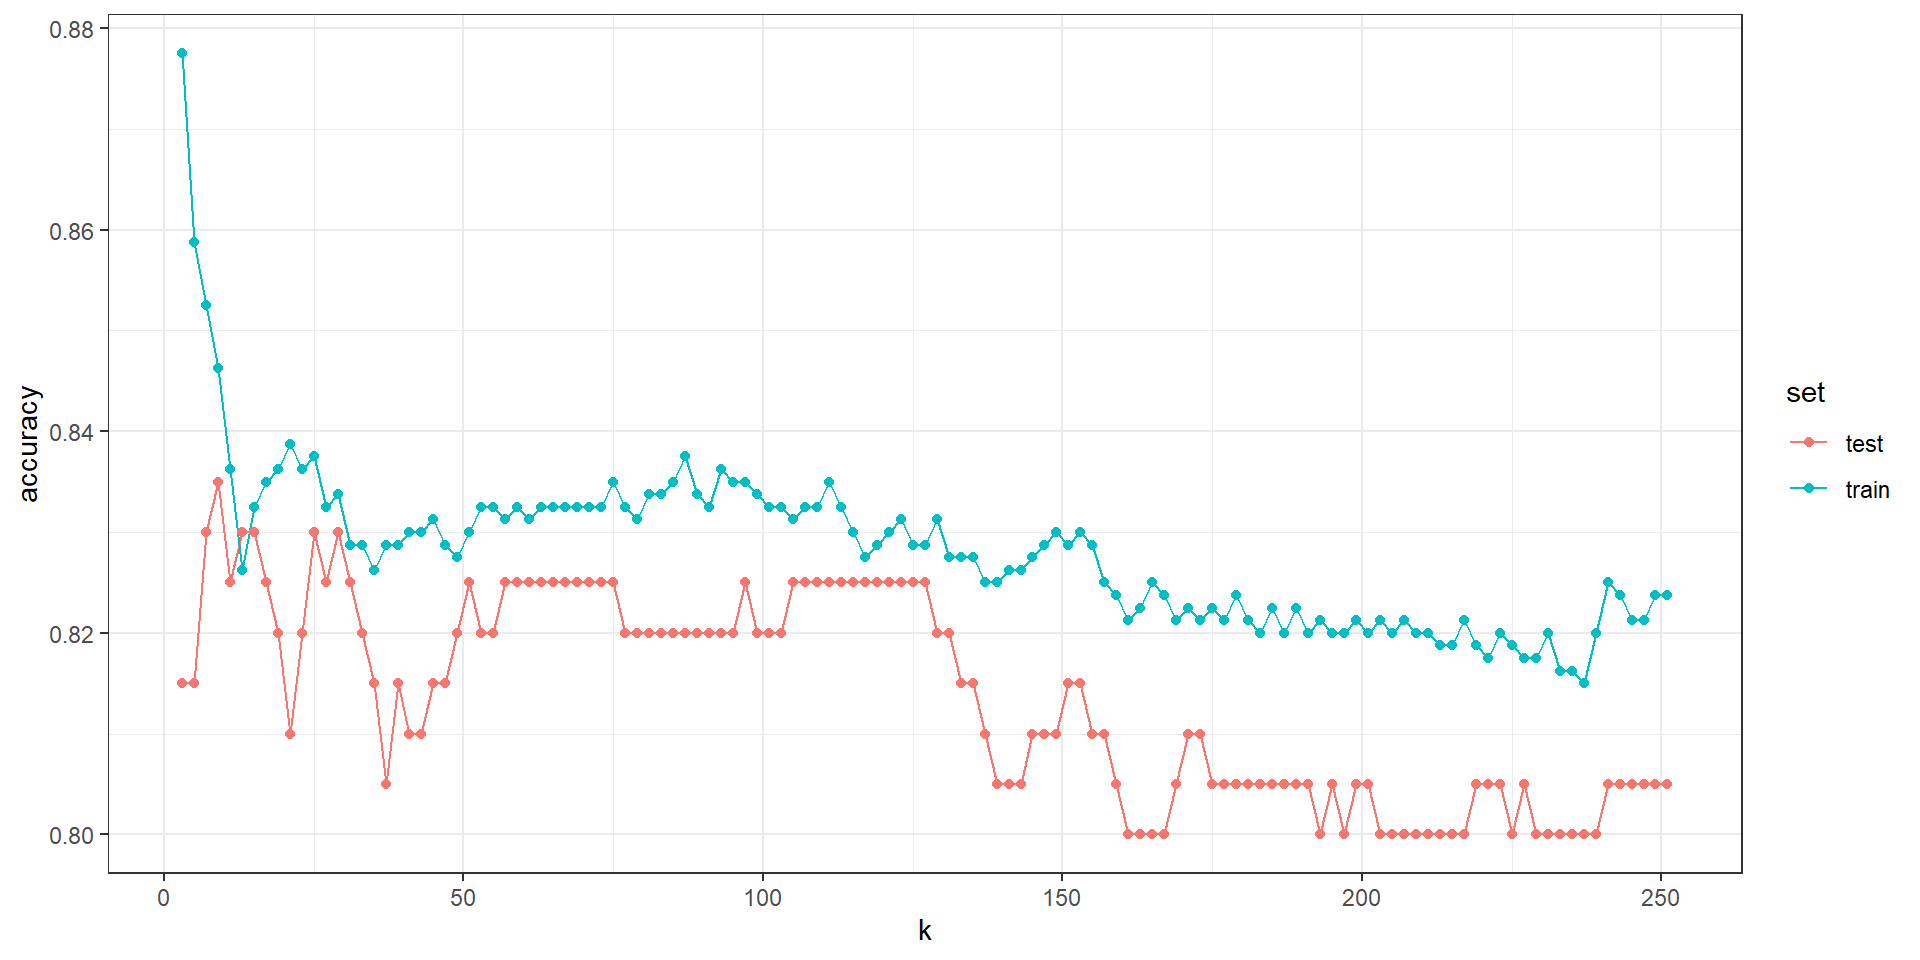
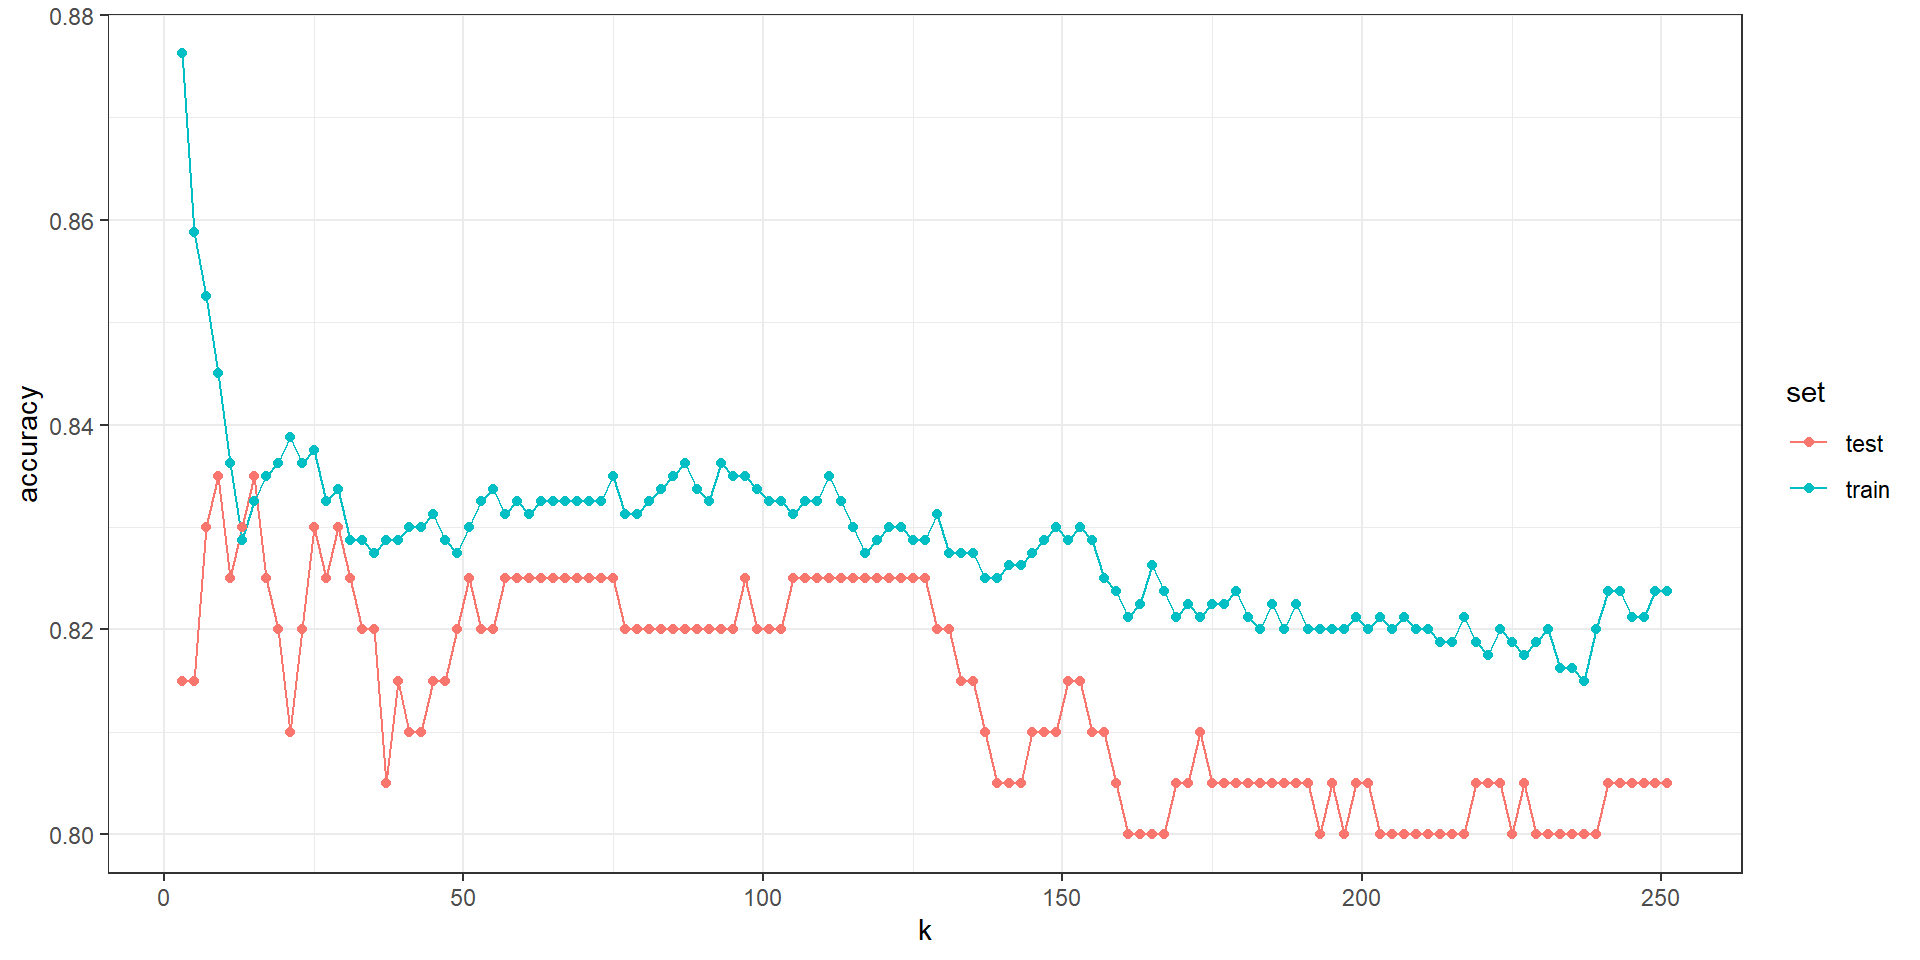
Update ML slides.

diff --git a/docs/slides/ml/37-intro-ml.html b/docs/slides/ml/37-intro-ml.html
@@ -9,7 +9,6 @@
 <link href="../../site_libs/quarto-html/quarto-syntax-highlighting-dark-2fef5ea3f8957b3e4ecc936fc74692ca.css" rel="stylesheet" id="quarto-text-highlighting-styles"><meta charset="utf-8">
   <meta name="generator" content="quarto-1.7.32">
 
-  <meta name="author" content="Rafael A. Irizarry">
   <meta name="dcterms.date" content="2025-12-01">
   <meta name="keywords" content="Machine Learning">
   <title>BST 260: Introduction to Data Science – Introduction</title>
@@ -132,11 +131,6 @@
   <h1 class="title">Introduction</h1>
 
 <div class="quarto-title-authors">
-<div class="quarto-title-author">
-<div class="quarto-title-author-name">
-Rafael A. Irizarry 
-</div>
-</div>
 </div>
 
   <p class="date">2025-12-01</p>
@@ -151,7 +145,7 @@ Rafael A. Irizarry
 <section id="machine-learning-1" class="slide level2">
 <h2>Machine Learning</h2>
 <ul>
-<li><p>Other significant advances include movie recommendation systems, spam and malware detection, housing price prediction algorithms, and the ongoing development of autonomous vehicles.</p></li>
+<li><p>Other significant advances include movie recommendation systems, spam and malware detection, housing price prediction algorithms, the ongoing development of autonomous vehicles and biomedical applications (genomics, transcriptomics, proteomics, etc).</p></li>
 <li><p>The field of <em>Artificial Intelligence (AI)</em> has been evolving for several decades.</p></li>
 </ul>
 </section>
@@ -162,13 +156,6 @@ Rafael A. Irizarry
 <li><p>However, with the advent of data availability, machine learning has gained prominence.</p></li>
 <li><p>It focuses on decision-making through algorithms trained with data.</p></li>
 <li><p>In recent years, the terms AI and Machine Learning have been used interchangeably in many contexts, though they have distinct meanings.</p></li>
-</ul>
-</section>
-<section id="machine-learning-3" class="slide level2">
-<h2>Machine Learning</h2>
-<ul>
-<li><p>Machine learning has achieved remarkable successes, ranging from the postal service’s handwritten zip code readers to voice recognition systems like Apple’s Siri.</p></li>
-<li><p>These advances also include movie recommendation systems, spam and malware detection, housing price prediction algorithms, and the development of driverless cars.</p></li>
 </ul>
 </section>
 <section id="terminology" class="slide level2">

diff --git a/docs/slides.html b/docs/slides.html
@@ -738,7 +738,7 @@ Date
 
 </tr>
 
-<tr data-index="37" data-listing-date-sort="1764565200000" data-listing-file-modified-sort="1763415678358" data-listing-date-modified-sort="NaN" data-listing-reading-time-sort="5" data-listing-word-count-sort="860" data-listing-title-sort="Introduction" data-listing-filename-sort="37-intro-ml.qmd">
+<tr data-index="37" data-listing-date-sort="1764565200000" data-listing-file-modified-sort="1764539519003" data-listing-date-modified-sort="NaN" data-listing-reading-time-sort="5" data-listing-word-count-sort="821" data-listing-title-sort="Introduction" data-listing-filename-sort="37-intro-ml.qmd">
 <td>
 <span class="listing-keywords">Machine Learning</span>
 </td>
@@ -764,7 +764,7 @@ Date
 
 </tr>
 
-<tr data-index="39" data-listing-date-sort="1764565200000" data-listing-file-modified-sort="1763415685989" data-listing-date-modified-sort="NaN" data-listing-reading-time-sort="3" data-listing-word-count-sort="510" data-listing-title-sort="Conditionals" data-listing-filename-sort="39-conditionals.qmd">
+<tr data-index="39" data-listing-date-sort="1764565200000" data-listing-file-modified-sort="1764539442290" data-listing-date-modified-sort="NaN" data-listing-reading-time-sort="3" data-listing-word-count-sort="510" data-listing-title-sort="Conditionals" data-listing-filename-sort="39-conditionals.qmd">
 <td>
 <span class="listing-keywords">Machine Learning</span>
 </td>

diff --git a/docs/slides/ml/39-conditionals.html b/docs/slides/ml/39-conditionals.html
@@ -9,7 +9,6 @@
 <link href="../../site_libs/quarto-html/quarto-syntax-highlighting-dark-2fef5ea3f8957b3e4ecc936fc74692ca.css" rel="stylesheet" id="quarto-text-highlighting-styles"><meta charset="utf-8">
   <meta name="generator" content="quarto-1.7.32">
 
-  <meta name="author" content="Rafael A. Irizarry">
   <meta name="dcterms.date" content="2025-12-01">
   <meta name="keywords" content="Machine Learning">
   <title>BST 260: Introduction to Data Science – Conditionals</title>
@@ -132,11 +131,6 @@
   <h1 class="title">Conditionals</h1>
 
 <div class="quarto-title-authors">
-<div class="quarto-title-author">
-<div class="quarto-title-author-name">
-Rafael A. Irizarry 
-</div>
-</div>
 </div>
 
   <p class="date">2025-12-01</p>

diff --git a/docs/slides/ml/41-knn.html b/docs/slides/ml/41-knn.html
@@ -304,7 +304,7 @@ p(\mathbf{x}) = \mbox{Pr}(Y = 1 \mid X_1 = x_1 , X_2 = x_2).
 <span id="cb7-2"><a></a><span class="fu">confusionMatrix</span>(y_hat_knn, mnist_27<span class="sc">$</span>train<span class="sc">$</span>y)<span class="sc">$</span>overall[<span class="st">"Accuracy"</span>] </span></code><button title="Copy to Clipboard" class="code-copy-button"><i class="bi"></i></button></pre></div>
 <div class="cell-output cell-output-stdout">
 <pre><code>Accuracy 
-   0.859 </code></pre>
+   0.858 </code></pre>
 </div>
 </div>
 <p>to</p>
